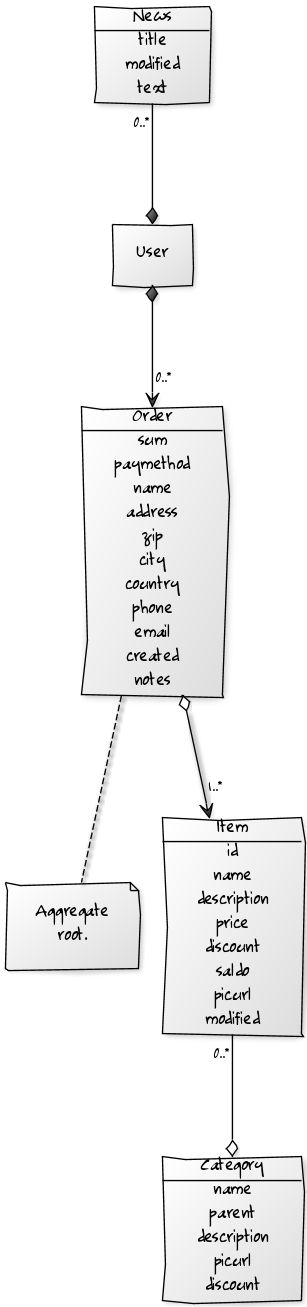
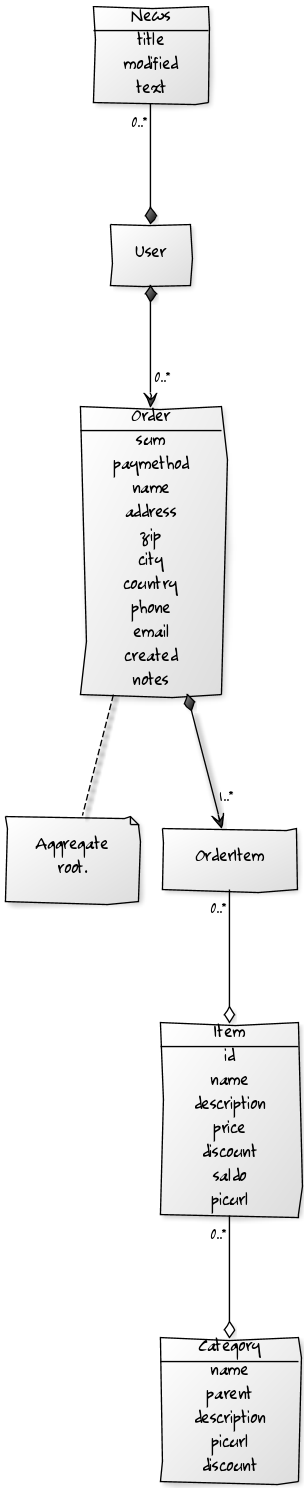
ostoksen tekonappi

Changed region(s): [[0.0, 0.0, 1.0, 1.0], [0.3553, 0.153, 0.3849, 0.2142], [0.0, 0.6733, 0.0296, 0.7345]]

diff --git a/shop/app/controllers/order_items_controller.rb b/shop/app/controllers/order_items_controller.rb
@@ -1,0 +1,126 @@
+class OrderItemsController < ApplicationController
+  # GET /order_items
+  # GET /order_items.xml
+  def index
+    @order_items = OrderItem.all
+
+    respond_to do |format|
+      format.html # index.html.erb
+      format.xml  { render :xml => @order_items }
+    end
+  end
+
+  # GET /order_items/1
+  # GET /order_items/1.xml
+  def show
+    @order_item = OrderItem.find(params[:id])
+
+    respond_to do |format|
+      format.html # show.html.erb
+      format.xml  { render :xml => @order_item }
+    end
+  end
+
+  # GET /order_items/new
+  # GET /order_items/new.xml
+  def new
+    @order_item = OrderItem.new
+
+    respond_to do |format|
+      format.html # new.html.erb
+      format.xml  { render :xml => @order_item }
+    end
+  end
+
+  # GET /order_items/1/edit
+  def edit
+    @order_item = OrderItem.find(params[:id])
+  end
+
+  # POST /order_items
+  # POST /order_items.xml
+  def create
+    @order_id = session[:order_id]
+    @order
+    if @order_id
+      @order = Order.find(@order_id)
+    end
+    if(@order.nil?) 
+      @order = Order.new
+      @order.skip_validations = true
+      @order.save
+      session[:order_id] = @order.id
+    end
+    @order_item = OrderItem.new(params[:order_item])
+
+    respond_to do |format|
+      if @order_item.save
+        format.html { redirect_to(@order_item, :notice => 'OrderItem was successfully created.') }
+        format.xml  { render :xml => @order_item, :status => :created, :location => @order_item }
+      else
+        format.html { render :action => "new" }
+        format.xml  { render :xml => @order_item.errors, :status => :unprocessable_entity }
+      end
+    end
+  end
+
+  # POST /order_items
+  # POST /order_items.xml
+  def addtocart 
+    @order_id = session[:order_id]
+    @order
+    if @order_id
+      @order = Order.find(@order_id)
+    end
+    if(@order.nil?) 
+      @order = Order.new
+      @order.skip_validations = true
+      @order.save
+      session[:order_id] = @order.id
+    end
+
+    @order_item = OrderItem.new
+    @order_item.order_id = @order.id
+    @order_item.item_id = params[:item][:id]
+
+    respond_to do |format|
+      if @order_item.save
+        format.html { redirect_to(@order_item, :notice => 'OrderItem was successfully created.') }
+        format.xml  { render :xml => @order_item, :status => :created, :location => @order_item }
+      else
+        format.html { render :action => "new" }
+        format.xml  { render :xml => @order_item.errors, :status => :unprocessable_entity }
+      end
+    end
+  end
+
+
+  # PUT /order_items/1
+  # PUT /order_items/1.xml
+  def update
+    @order_item = OrderItem.find(params[:id])
+
+    respond_to do |format|
+      if @order_item.update_attributes(params[:order_item])
+        format.html { redirect_to(@order_item, :notice => 'OrderItem was successfully updated.') }
+        format.xml  { head :ok }
+      else
+        format.html { render :action => "edit" }
+        format.xml  { render :xml => @order_item.errors, :status => :unprocessable_entity }
+      end
+    end
+  end
+
+  # DELETE /order_items/1
+  # DELETE /order_items/1.xml
+  def destroy
+    @order_item = OrderItem.find(params[:id])
+    @order_item.destroy
+
+    respond_to do |format|
+      format.html { redirect_to(order_items_url) }
+      format.xml  { head :ok }
+    end
+  end
+
+end

diff --git a/shop/test/functional/order_items_controller_test.rb b/shop/test/functional/order_items_controller_test.rb
@@ -1,0 +1,45 @@
+require 'test_helper'
+
+class OrderItemsControllerTest < ActionController::TestCase
+  test "should get index" do
+    get :index
+    assert_response :success
+    assert_not_nil assigns(:order_items)
+  end
+
+  test "should get new" do
+    get :new
+    assert_response :success
+  end
+
+  test "should create order_item" do
+    assert_difference('OrderItem.count') do
+      post :create, :order_item => { }
+    end
+
+    assert_redirected_to order_item_path(assigns(:order_item))
+  end
+
+  test "should show order_item" do
+    get :show, :id => order_items(:one).to_param
+    assert_response :success
+  end
+
+  test "should get edit" do
+    get :edit, :id => order_items(:one).to_param
+    assert_response :success
+  end
+
+  test "should update order_item" do
+    put :update, :id => order_items(:one).to_param, :order_item => { }
+    assert_redirected_to order_item_path(assigns(:order_item))
+  end
+
+  test "should destroy order_item" do
+    assert_difference('OrderItem.count', -1) do
+      delete :destroy, :id => order_items(:one).to_param
+    end
+
+    assert_redirected_to order_items_path
+  end
+end

diff --git a/shop/db/schema.rb b/shop/db/schema.rb
@@ -9,7 +9,7 @@
 #
 # It's strongly recommended to check this file into your version control system.
 
-ActiveRecord::Schema.define(:version => 20140424171100) do
+ActiveRecord::Schema.define(:version => 20140501093145) do
 
   create_table "categories", :force => true do |t|
     t.string   "name"
@@ -38,6 +38,13 @@ ActiveRecord::Schema.define(:version => 20140424171100) do
     t.string   "text"
     t.boolean  "expired"
     t.integer  "user_id"
+    t.datetime "created_at"
+    t.datetime "updated_at"
+  end
+
+  create_table "order_items", :force => true do |t|
+    t.integer  "order_id"
+    t.integer  "item_id"
     t.datetime "created_at"
     t.datetime "updated_at"
   end

diff --git a/shop/config/routes.rb b/shop/config/routes.rb
@@ -1,4 +1,6 @@
 ActionController::Routing::Routes.draw do |map|
+  map.resources :order_items
+
   map.resources :categories
 
   map.resources :orders
@@ -8,7 +10,7 @@ ActionController::Routing::Routes.draw do |map|
   map.resources :users
 
   map.resources :news
-
+  map.addtocart 'items/:id/addtocart', :controller => 'order_items', :action => 'addtocart'
   # The priority is based upon order of creation: first created -> highest priority.
   #
 

diff --git a/shop/app/models/order.rb b/shop/app/models/order.rb
@@ -1,5 +1,8 @@
 class Order < ActiveRecord::Base
-  has_many :items
+  has_many :order_items
   belongs_to :user
-  validates_presence_of :paymethod, :name, :address, :zip, :city, :country, :phone, :email
+  validates_presence_of :paymethod, :name, :address, :zip, :city, :country, :phone, :email, :unless => "!skip_validations.nil?"
+
+  attr_accessor :skip_validations
+  attr_protected :skip_validations
 end

diff --git a/shop/app/controllers/orders_controller.rb b/shop/app/controllers/orders_controller.rb
@@ -1,6 +1,6 @@
 class OrdersController < ApplicationController
-  before_filter :require_login
-  before_filter :authenticate
+  before_filter :require_login, :only => [:destroy]
+  before_filter :authenticate, :only => [:destroy]
 
   # GET /orders
   # GET /orders.xml

diff --git a/shop/db/migrate/20140501093145_create_order_items.rb b/shop/db/migrate/20140501093145_create_order_items.rb
@@ -1,0 +1,14 @@
+class CreateOrderItems < ActiveRecord::Migration
+  def self.up
+    create_table :order_items do |t|
+      t.integer :order_id
+      t.integer :item_id
+
+      t.timestamps
+    end
+  end
+
+  def self.down
+    drop_table :order_items
+  end
+end

diff --git a/shop/app/models/order_item.rb b/shop/app/models/order_item.rb
@@ -1,0 +1,6 @@
+class OrderItem < ActiveRecord::Base
+  belongs_to :items
+  belongs_to :orders
+  validates_presence_of :order_id,:item_id
+  attr_accessible :order_id,:item_id
+end

diff --git a/shop/test/unit/order_item_test.rb b/shop/test/unit/order_item_test.rb
@@ -1,0 +1,8 @@
+require 'test_helper'
+
+class OrderItemTest < ActiveSupport::TestCase
+  # Replace this with your real tests.
+  test "the truth" do
+    assert true
+  end
+end

diff --git a/shop/app/models/item.rb b/shop/app/models/item.rb
@@ -1,4 +1,5 @@
 class Item < ActiveRecord::Base
+  has_many :order_items
   belongs_to :category
   validates_presence_of :name, :description, :price, :saldo
 end

diff --git a/shop/test/unit/helpers/order_items_helper_test.rb b/shop/test/unit/helpers/order_items_helper_test.rb
@@ -1,0 +1,4 @@
+require 'test_helper'
+
+class OrderItemsHelperTest < ActionView::TestCase
+end

diff --git a/shop/app/helpers/order_items_helper.rb b/shop/app/helpers/order_items_helper.rb
@@ -1,0 +1,2 @@
+module OrderItemsHelper
+end
